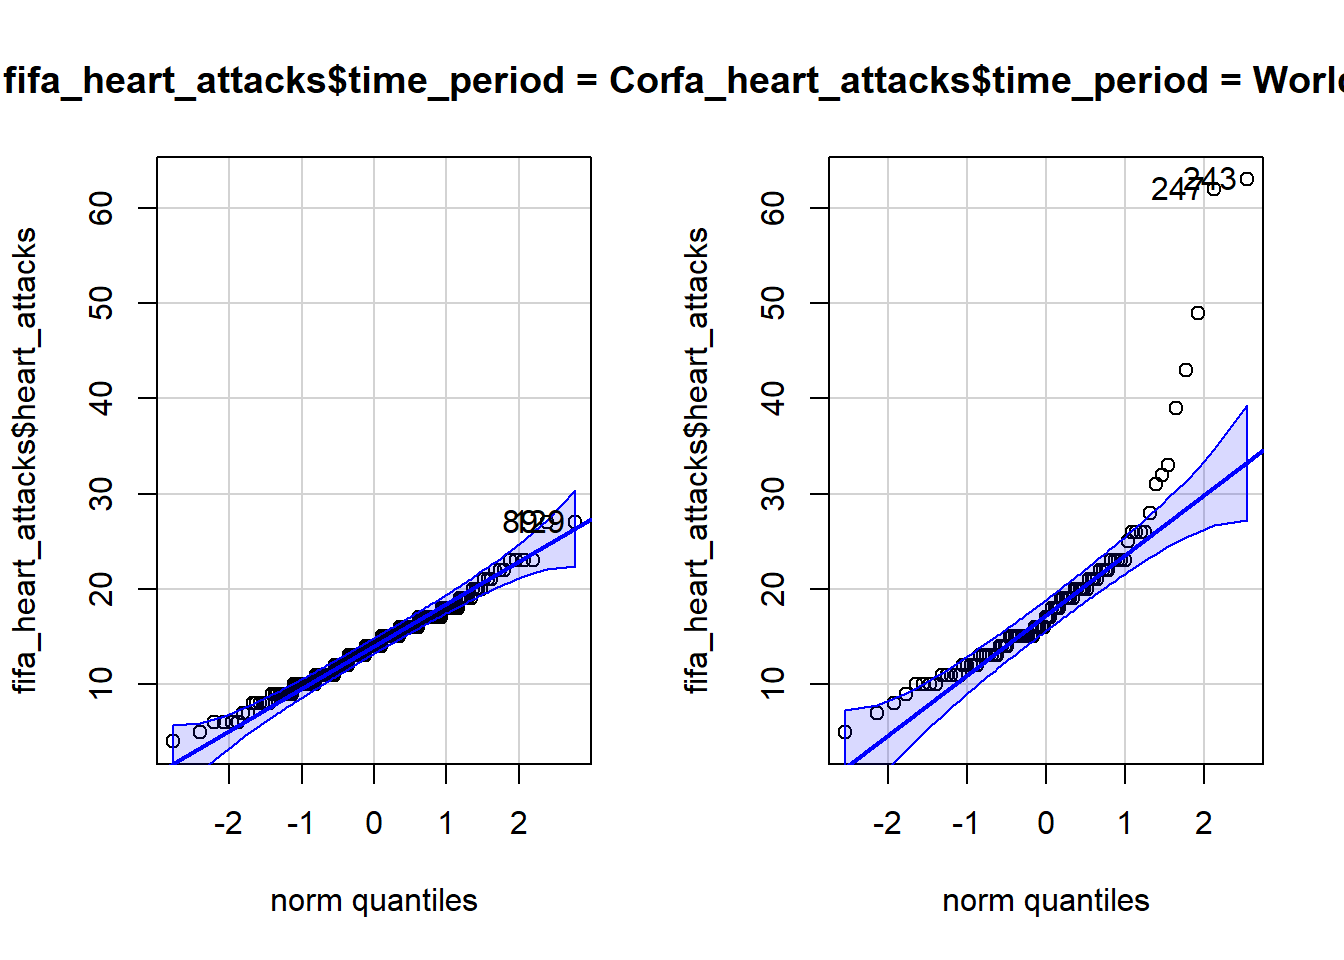
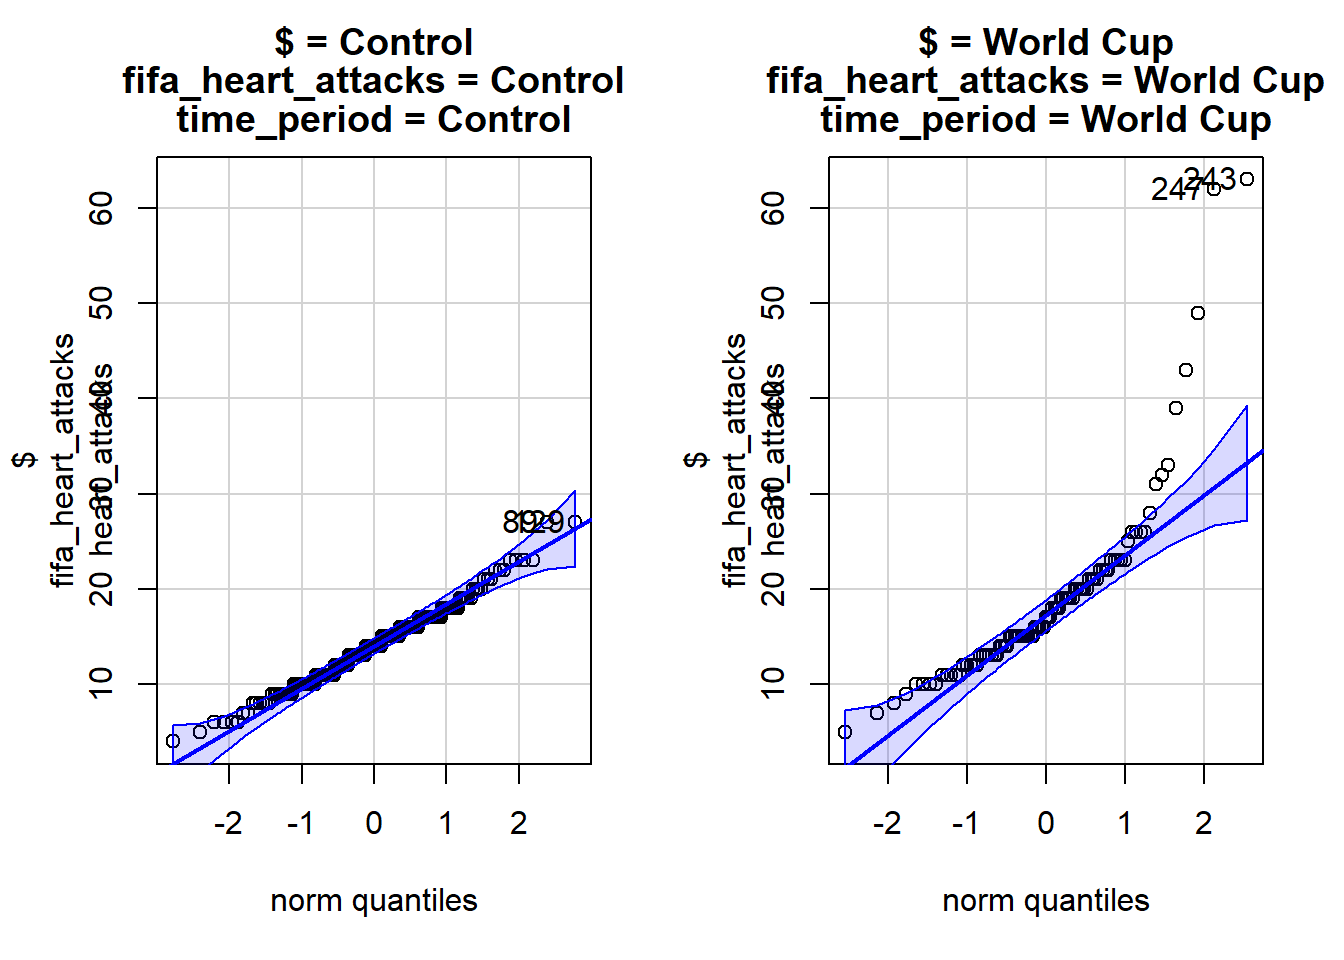
updated indep ttest

Changed region(s): [[0.0, 0.0312, 1.0, 0.1562], [0.5, 0.2188, 0.5938, 0.7188], [0.0, 0.2188, 0.0938, 0.7188]]

diff --git a/docs/4-Statistical_Tests_Part1/05-Independent_2_sample_ttest.html b/docs/4-Statistical_Tests_Part1/05-Independent_2_sample_ttest.html
@@ -497,6 +497,7 @@ window.Quarto = {
   <li><a href="#hypothesis-tests-for-independent-samples" id="toc-hypothesis-tests-for-independent-samples" class="nav-link" data-scroll-target="#hypothesis-tests-for-independent-samples">Hypothesis Tests for Independent Samples</a>
   <ul class="collapse">
   <li><a href="#independent-t-test-in-r" id="toc-independent-t-test-in-r" class="nav-link" data-scroll-target="#independent-t-test-in-r">Independent t-test in R</a></li>
+  <li><a href="#checking-requirements" id="toc-checking-requirements" class="nav-link" data-scroll-target="#checking-requirements">Checking Requirements</a></li>
   <li><a href="#confidence-intervals" id="toc-confidence-intervals" class="nav-link" data-scroll-target="#confidence-intervals">Confidence Intervals</a></li>
   </ul></li>
   <li><a href="#practice-together" id="toc-practice-together" class="nav-link" data-scroll-target="#practice-together">Practice Together</a>
@@ -591,6 +592,17 @@ favstats(data$response_variable ~ data$grouping_variable)</code></pre>
 <p><strong>NOTE</strong>: In R, group 1 and 2 are determined alphabetically according to the labels in the explanatory variable column.</p>
 <p><strong>EXAMPLE</strong>: If my explanatory variable is <code>sex</code>, and they are labeled “Female” and “Male”, then “Female” would be the reference group. If I suspect that Females had smaller feet than males I would use <code>alternative = "less"</code>.</p>
 </section>
+<section id="checking-requirements" class="level2">
+<h2 class="anchored" data-anchor-id="checking-requirements">Checking Requirements</h2>
+<p>When we looked at 1-sample t-tests, we had to check that the sample mean was normally distributed. Recall that the sample mean is approximately normal if:</p>
+<ol type="1">
+<li>The source population is normally distributed</li>
+<li>The sample size, <span class="math inline">\(n \ge 30\)</span></li>
+</ol>
+<p>For a 2-sample t-test, we must check that this is true for <strong>both</strong> samples. If both sample sizes are bigger than 30 then we can trust the CLT and the statistics based on it.</p>
+<p>If the sample sizes are small, we can make a <code>qqPlot()</code> for both groups:</p>
+<pre><code>qqPlot(data$response_variable ~ data$explanatory_variable)</code></pre>
+</section>
 <section id="confidence-intervals" class="level2">
 <h2 class="anchored" data-anchor-id="confidence-intervals">Confidence Intervals</h2>
 <p>Recall that confidence intervals are necessarily two-sided. So the code for a 99% confidence interval looks like:</p>
@@ -614,17 +626,17 @@ favstats(data$response_variable ~ data$grouping_variable)</code></pre>
 <section id="step-1-read-in-data" class="level2">
 <h2 class="anchored" data-anchor-id="step-1-read-in-data">Step 1: Read in Data</h2>
 <div class="cell">
-<div class="sourceCode cell-code" id="cb5"><pre class="sourceCode r code-with-copy"><code class="sourceCode r"><span id="cb5-1"><a href="#cb5-1" aria-hidden="true" tabindex="-1"></a><span class="co"># Load Libraries</span></span>
-<span id="cb5-2"><a href="#cb5-2" aria-hidden="true" tabindex="-1"></a></span>
-<span id="cb5-3"><a href="#cb5-3" aria-hidden="true" tabindex="-1"></a><span class="fu">library</span>(tidyverse)</span>
-<span id="cb5-4"><a href="#cb5-4" aria-hidden="true" tabindex="-1"></a><span class="fu">library</span>(mosaic)</span>
-<span id="cb5-5"><a href="#cb5-5" aria-hidden="true" tabindex="-1"></a><span class="fu">library</span>(rio)</span>
-<span id="cb5-6"><a href="#cb5-6" aria-hidden="true" tabindex="-1"></a><span class="fu">library</span>(car)</span>
-<span id="cb5-7"><a href="#cb5-7" aria-hidden="true" tabindex="-1"></a></span>
-<span id="cb5-8"><a href="#cb5-8" aria-hidden="true" tabindex="-1"></a></span>
-<span id="cb5-9"><a href="#cb5-9" aria-hidden="true" tabindex="-1"></a><span class="co"># Load Data</span></span>
-<span id="cb5-10"><a href="#cb5-10" aria-hidden="true" tabindex="-1"></a></span>
-<span id="cb5-11"><a href="#cb5-11" aria-hidden="true" tabindex="-1"></a>fifa_heart_attacks <span class="ot">&lt;-</span> <span class="fu">import</span>(<span class="st">"https://byuistats.github.io/M221R/Data/fifa_heart_attacks.xlsx"</span>)</span></code><button title="Copy to Clipboard" class="code-copy-button"><i class="bi"></i></button></pre></div>
+<div class="sourceCode cell-code" id="cb6"><pre class="sourceCode r code-with-copy"><code class="sourceCode r"><span id="cb6-1"><a href="#cb6-1" aria-hidden="true" tabindex="-1"></a><span class="co"># Load Libraries</span></span>
+<span id="cb6-2"><a href="#cb6-2" aria-hidden="true" tabindex="-1"></a></span>
+<span id="cb6-3"><a href="#cb6-3" aria-hidden="true" tabindex="-1"></a><span class="fu">library</span>(tidyverse)</span>
+<span id="cb6-4"><a href="#cb6-4" aria-hidden="true" tabindex="-1"></a><span class="fu">library</span>(mosaic)</span>
+<span id="cb6-5"><a href="#cb6-5" aria-hidden="true" tabindex="-1"></a><span class="fu">library</span>(rio)</span>
+<span id="cb6-6"><a href="#cb6-6" aria-hidden="true" tabindex="-1"></a><span class="fu">library</span>(car)</span>
+<span id="cb6-7"><a href="#cb6-7" aria-hidden="true" tabindex="-1"></a></span>
+<span id="cb6-8"><a href="#cb6-8" aria-hidden="true" tabindex="-1"></a></span>
+<span id="cb6-9"><a href="#cb6-9" aria-hidden="true" tabindex="-1"></a><span class="co"># Load Data</span></span>
+<span id="cb6-10"><a href="#cb6-10" aria-hidden="true" tabindex="-1"></a></span>
+<span id="cb6-11"><a href="#cb6-11" aria-hidden="true" tabindex="-1"></a>fifa_heart_attacks <span class="ot">&lt;-</span> <span class="fu">import</span>(<span class="st">"https://byuistats.github.io/M221R/Data/fifa_heart_attacks.xlsx"</span>)</span></code><button title="Copy to Clipboard" class="code-copy-button"><i class="bi"></i></button></pre></div>
 </div>
 </section>
 <section id="step-2-review-data" class="level2">
@@ -639,7 +651,7 @@ favstats(data$response_variable ~ data$grouping_variable)</code></pre>
 <li>Create a qqPlot()</li>
 </ol>
 <div class="cell">
-<div class="sourceCode cell-code" id="cb6"><pre class="sourceCode r code-with-copy"><code class="sourceCode r"><span id="cb6-1"><a href="#cb6-1" aria-hidden="true" tabindex="-1"></a><span class="fu">qqPlot</span>(fifa_heart_attacks<span class="sc">$</span>heart_attacks, <span class="at">groups =</span> fifa_heart_attacks<span class="sc">$</span>time_period)</span></code><button title="Copy to Clipboard" class="code-copy-button"><i class="bi"></i></button></pre></div>
+<div class="sourceCode cell-code" id="cb7"><pre class="sourceCode r code-with-copy"><code class="sourceCode r"><span id="cb7-1"><a href="#cb7-1" aria-hidden="true" tabindex="-1"></a><span class="fu">qqPlot</span>(fifa_heart_attacks<span class="sc">$</span>heart_attacks <span class="sc">~</span> fifa_heart_attacks<span class="sc">$</span>time_period)</span></code><button title="Copy to Clipboard" class="code-copy-button"><i class="bi"></i></button></pre></div>
 <div class="cell-output-display">
 <div>
 <figure class="figure">
@@ -664,7 +676,7 @@ favstats(data$response_variable ~ data$grouping_variable)</code></pre>
 <p>Which group is considered group 1 and which is group 2 in R?</p>
 <p>Check the alphabetical order:</p>
 <div class="cell">
-<div class="sourceCode cell-code" id="cb7"><pre class="sourceCode r code-with-copy"><code class="sourceCode r"><span id="cb7-1"><a href="#cb7-1" aria-hidden="true" tabindex="-1"></a><span class="fu">unique</span>(fifa_heart_attacks<span class="sc">$</span>time_period)</span></code><button title="Copy to Clipboard" class="code-copy-button"><i class="bi"></i></button></pre></div>
+<div class="sourceCode cell-code" id="cb8"><pre class="sourceCode r code-with-copy"><code class="sourceCode r"><span id="cb8-1"><a href="#cb8-1" aria-hidden="true" tabindex="-1"></a><span class="fu">unique</span>(fifa_heart_attacks<span class="sc">$</span>time_period)</span></code><button title="Copy to Clipboard" class="code-copy-button"><i class="bi"></i></button></pre></div>
 <div class="cell-output cell-output-stdout">
 <pre><code>[1] "Control"   "World Cup"</code></pre>
 </div>
@@ -693,7 +705,7 @@ favstats(data$response_variable ~ data$grouping_variable)</code></pre>
 <section id="load-the-data" class="level3">
 <h3 class="anchored" data-anchor-id="load-the-data">Load the Data</h3>
 <div class="cell">
-<div class="sourceCode cell-code" id="cb9"><pre class="sourceCode r code-with-copy"><code class="sourceCode r"><span id="cb9-1"><a href="#cb9-1" aria-hidden="true" tabindex="-1"></a>rugby <span class="ot">&lt;-</span> <span class="fu">import</span>(<span class="st">"https://byuistats.github.io/M221R/Data/quiz/R/nz_rugby.csv"</span>)</span></code><button title="Copy to Clipboard" class="code-copy-button"><i class="bi"></i></button></pre></div>
+<div class="sourceCode cell-code" id="cb10"><pre class="sourceCode r code-with-copy"><code class="sourceCode r"><span id="cb10-1"><a href="#cb10-1" aria-hidden="true" tabindex="-1"></a>rugby <span class="ot">&lt;-</span> <span class="fu">import</span>(<span class="st">"https://byuistats.github.io/M221R/Data/quiz/R/nz_rugby.csv"</span>)</span></code><button title="Copy to Clipboard" class="code-copy-button"><i class="bi"></i></button></pre></div>
 </div>
 </section>
 <section id="explore-the-data" class="level3">
@@ -711,7 +723,7 @@ favstats(data$response_variable ~ data$grouping_variable)</code></pre>
 <p><strong>NOTE</strong>: The default for R is to set group order alphabetically. This means Group 1 = NewRules</p>
 <p>Compare the the time per play under the new and old rules:</p>
 <div class="cell">
-<div class="sourceCode cell-code" id="cb10"><pre class="sourceCode r code-with-copy"><code class="sourceCode r"><span id="cb10-1"><a href="#cb10-1" aria-hidden="true" tabindex="-1"></a><span class="fu">qqPlot</span>(rugby<span class="sc">$</span>time, <span class="at">groups =</span> rugby<span class="sc">$</span>period)</span></code><button title="Copy to Clipboard" class="code-copy-button"><i class="bi"></i></button></pre></div>
+<div class="sourceCode cell-code" id="cb11"><pre class="sourceCode r code-with-copy"><code class="sourceCode r"><span id="cb11-1"><a href="#cb11-1" aria-hidden="true" tabindex="-1"></a><span class="fu">qqPlot</span>(rugby<span class="sc">$</span>time, <span class="at">groups =</span> rugby<span class="sc">$</span>period)</span></code><button title="Copy to Clipboard" class="code-copy-button"><i class="bi"></i></button></pre></div>
 <div class="cell-output-display">
 <div>
 <figure class="figure">
@@ -743,7 +755,7 @@ favstats(data$response_variable ~ data$grouping_variable)</code></pre>
 <section id="step-1-read-in-the-data" class="level2">
 <h2 class="anchored" data-anchor-id="step-1-read-in-the-data">Step 1: Read in the data</h2>
 <div class="cell">
-<div class="sourceCode cell-code" id="cb11"><pre class="sourceCode r code-with-copy"><code class="sourceCode r"><span id="cb11-1"><a href="#cb11-1" aria-hidden="true" tabindex="-1"></a>copd <span class="ot">&lt;-</span> <span class="fu">import</span>(<span class="st">"https://byuistats.github.io/M221R/Data/copd_rehab.xlsx"</span>) <span class="sc">%&gt;%</span> <span class="fu">pivot_longer</span>(<span class="at">cols=</span><span class="fu">c</span>(<span class="st">"community"</span>, <span class="st">"hospital"</span>), <span class="at">names_to =</span> <span class="st">"Treatment"</span>, <span class="at">values_to =</span> <span class="st">"Steps"</span>) <span class="sc">%&gt;%</span> <span class="fu">select</span>(Treatment, Steps) <span class="sc">%&gt;%</span> <span class="fu">arrange</span>(Treatment)</span></code><button title="Copy to Clipboard" class="code-copy-button"><i class="bi"></i></button></pre></div>
+<div class="sourceCode cell-code" id="cb12"><pre class="sourceCode r code-with-copy"><code class="sourceCode r"><span id="cb12-1"><a href="#cb12-1" aria-hidden="true" tabindex="-1"></a>copd <span class="ot">&lt;-</span> <span class="fu">import</span>(<span class="st">"https://byuistats.github.io/M221R/Data/copd_rehab.xlsx"</span>) <span class="sc">%&gt;%</span> <span class="fu">pivot_longer</span>(<span class="at">cols=</span><span class="fu">c</span>(<span class="st">"community"</span>, <span class="st">"hospital"</span>), <span class="at">names_to =</span> <span class="st">"Treatment"</span>, <span class="at">values_to =</span> <span class="st">"Steps"</span>) <span class="sc">%&gt;%</span> <span class="fu">select</span>(Treatment, Steps) <span class="sc">%&gt;%</span> <span class="fu">arrange</span>(Treatment)</span></code><button title="Copy to Clipboard" class="code-copy-button"><i class="bi"></i></button></pre></div>
 </div>
 </section>
 <section id="step-2-review-the-data" class="level2">
@@ -766,7 +778,7 @@ favstats(data$response_variable ~ data$grouping_variable)</code></pre>
 <p>Which group is considered group 1 in this data?</p>
 <p>Run the appropriate t-test.</p>
 <div class="cell">
-<div class="sourceCode cell-code" id="cb12"><pre class="sourceCode r code-with-copy"><code class="sourceCode r"><span id="cb12-1"><a href="#cb12-1" aria-hidden="true" tabindex="-1"></a><span class="co">#t.test()</span></span></code><button title="Copy to Clipboard" class="code-copy-button"><i class="bi"></i></button></pre></div>
+<div class="sourceCode cell-code" id="cb13"><pre class="sourceCode r code-with-copy"><code class="sourceCode r"><span id="cb13-1"><a href="#cb13-1" aria-hidden="true" tabindex="-1"></a><span class="co">#t.test()</span></span></code><button title="Copy to Clipboard" class="code-copy-button"><i class="bi"></i></button></pre></div>
 </div>
 <p>State your conclusion about the hypothesis test.</p>
 </section>
